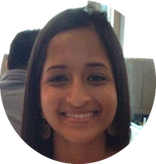
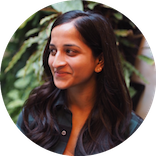
Updated picture, about me, recruiting details, formatting to accomodate

diff --git a/templates/index.html b/templates/index.html
@@ -18,17 +18,32 @@
                     Hey, my name is Opal
                 </h1>
                 <p>
-                I'm a recent grad from <a href='http://www.cs.berkeley.edu/' target='_'>Berkeley</a>, where I studied Computer Science. I am very excited to announce that I will be joining the team at <a href='https://flux.io/about/' target='_'>Flux</a> to work in recruiting this coming December.  
+                    I'm a recent grad from <a href='http://www.cs.berkeley.edu/' target='_'>Berkeley</a>, where I studied Computer Science. As of December, I've joined the team at <a href='https://flux.io/about/' target='_'>Flux</a> as their first internal recruiting hire.
                 </p>
                 <p>
-                At Cal, I was particuarly interested in user interface design and computer security. During my last year, I contributed to the Outreach and Web Developtment teams at  <a href='https://peerlibrary.org/' target'_'>PeerLibrary</a>, an open source project that provides collaborative layer of knowledge on top of academic publications. Check out some of my other technical collaborative projects <a href= 'https://housemates-project.herokuapp.com/' target='_'>here</a> and <a href='https://github.com/wt24/gymscribe' target='_'>here</a>.
-                 </p>
-                 <p>
+                    At Cal, I was particuarly interested in user interface design and computer security. During my last year, I contributed to the Outreach and Web Development teams at  <a href='https://peerlibrary.org/' target'_'>PeerLibrary</a>, an open source project that provides a collaborative layer of knowledge on top of academic publications. Check out some of my other technical collaborative projects <a href= 'https://housemates-project.herokuapp.com/' target='_'>here</a> and <a href='https://github.com/wt24/gymscribe' target='_'>here</a>.
+                </p>
+                <p>
                     I grew up in New Jersey and spend my free time exploring dance.
-                    I'm an avid salsa dancer and train seriously in <a href='https://www.youtube.com/watch?v=SqWB8_nrrMk' target='_'>aerial pole</a>. 
-                    I am a Berkeley Student Cooperative Alumni member and my home away from home will forever be <a href='http://en.wikipedia.org/wiki/Casa_Zimbabwe' target='_'>Casa Zimbabwe</a>.
-                    </p>
-                <p>    
+                    I'm an avid salsa dancer and train seriously in <a href='https://www.youtube.com/watch?v=SqWB8_nrrMk' target='_'>aerial pole</a>.
+                    I am also a Berkeley Student Cooperative Alumni member and my home away from home will forever be <a href='http://en.wikipedia.org/wiki/Casa_Zimbabwe' target='_'>Casa Zimbabwe</a>.
+                </p>
+                <h2>
+                    Recruiting
+                </h2> 
+                <p>
+                    From a young age, my natural intelligence came in the form of soft skills--skills that were relatively useless for my entire academic career. I had less of natural knack for objective problem solving and things of mathematical nature. So growing up, I worked extremely hard to build that solid foundation so as to balance my skillset. 
+                </p>
+                <p>
+                    The decision to pursue Computer Science was rooted in a motivation to continue building a repertoire of hard skills, mixed with a love for the creative. It was both one of the hardest and best decisions I've ever made. 
+                </p>
+                <p>
+                    Naturally, I found recruiting to be an interesting space where I saw myself leveraging both my technical and interpersonal skills. I liked the idea of recruiting at a startup because I wanted be a vital part in building a team somewhere with little definition and great opportunity for growth.
+                </p>
+                <h2>
+                    -----------
+                </h2> 
+                 <p>    
                     To contact me, shoot me an email at <a href="mailto:opal.kale@gmail.com">opal.kale@gmail.com</a>. 
                     Here are my <a href='http://github.com/opalkale' target='_'>Github</a>,
                     <a href='https://www.linkedin.com/in/opalkale' target='_'>LinkedIn</a>,

diff --git a/static/style.css b/static/style.css
@@ -2,7 +2,7 @@
 @import url(http://fonts.googleapis.com/css?family=Lato:300,400);
 
 #container {
-    width: 400px;
+    width: 430px;
     margin: 0 auto;
 }
 
@@ -21,7 +21,16 @@ h1 {
     margin-top: 60px;
     font-family: 'Codystar', cursive;
     color: #555;
-}
+    text-align: center;
+    }
+
+h2 {
+    font-size: 33px;
+    font-weight: 400;
+    font-family: 'Codystar', cursive;
+    color: #555;
+    text-align: center;
+    }
 
 p {
     font-size: 15px;
